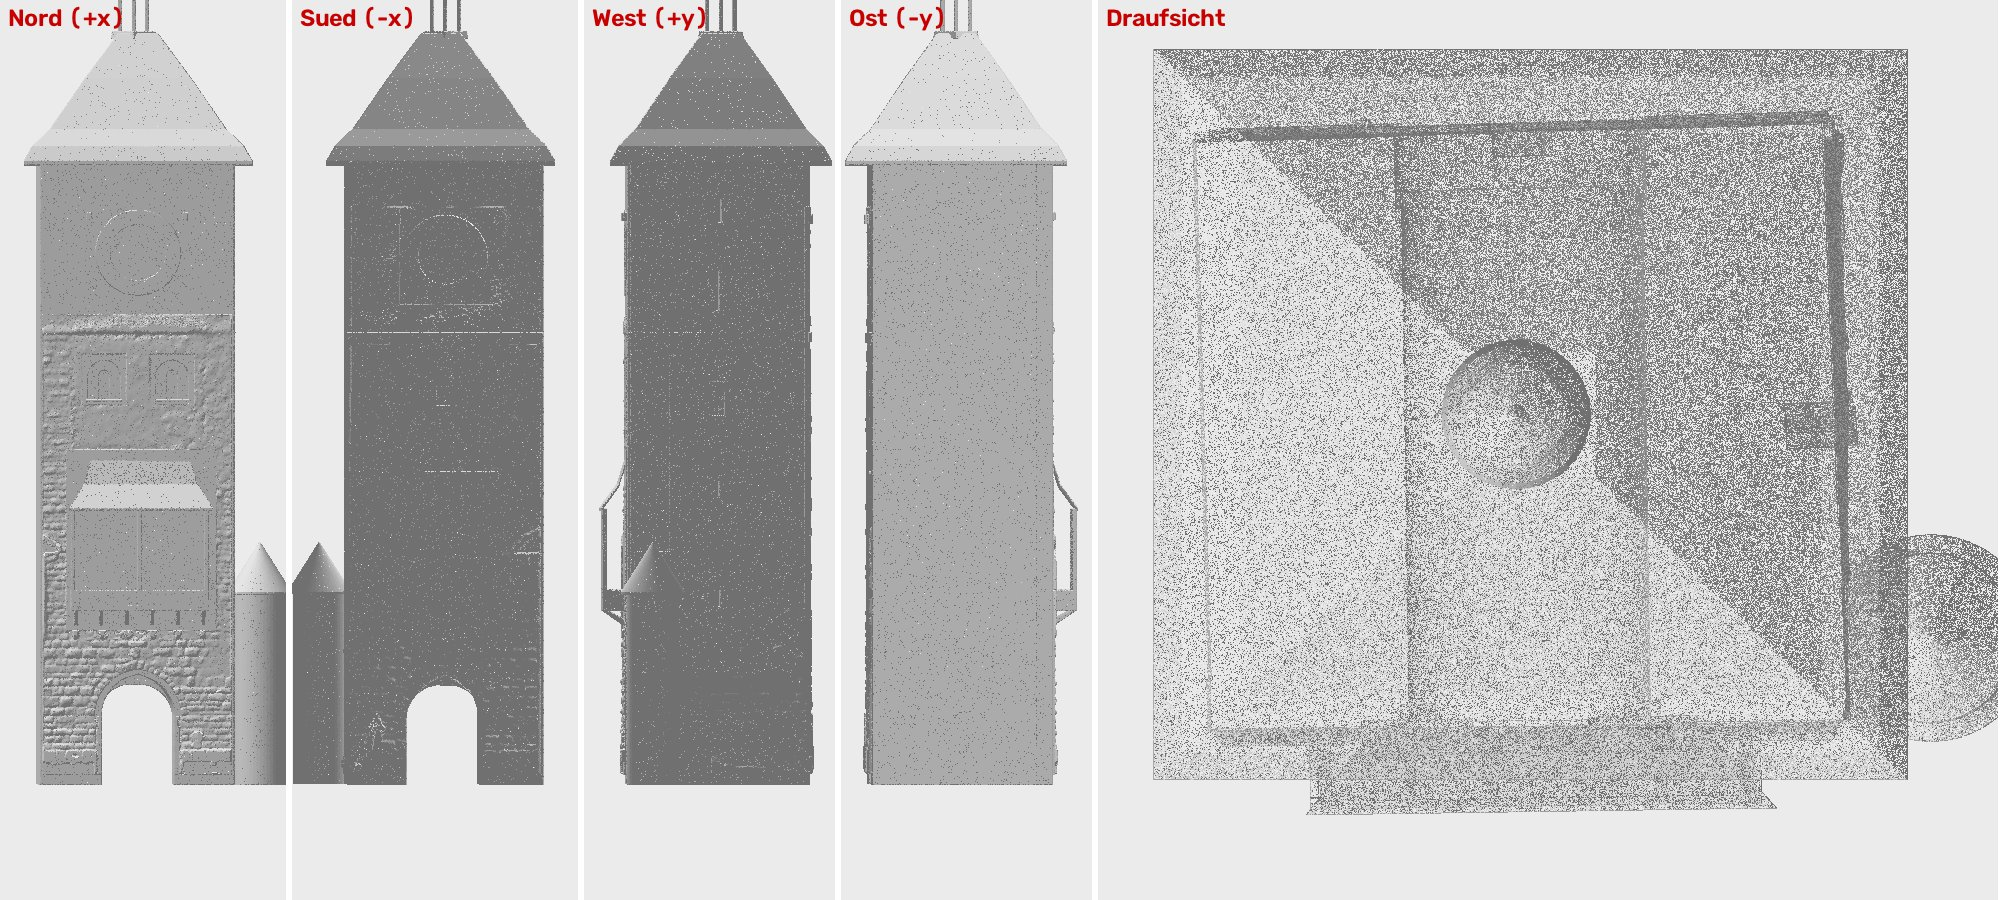
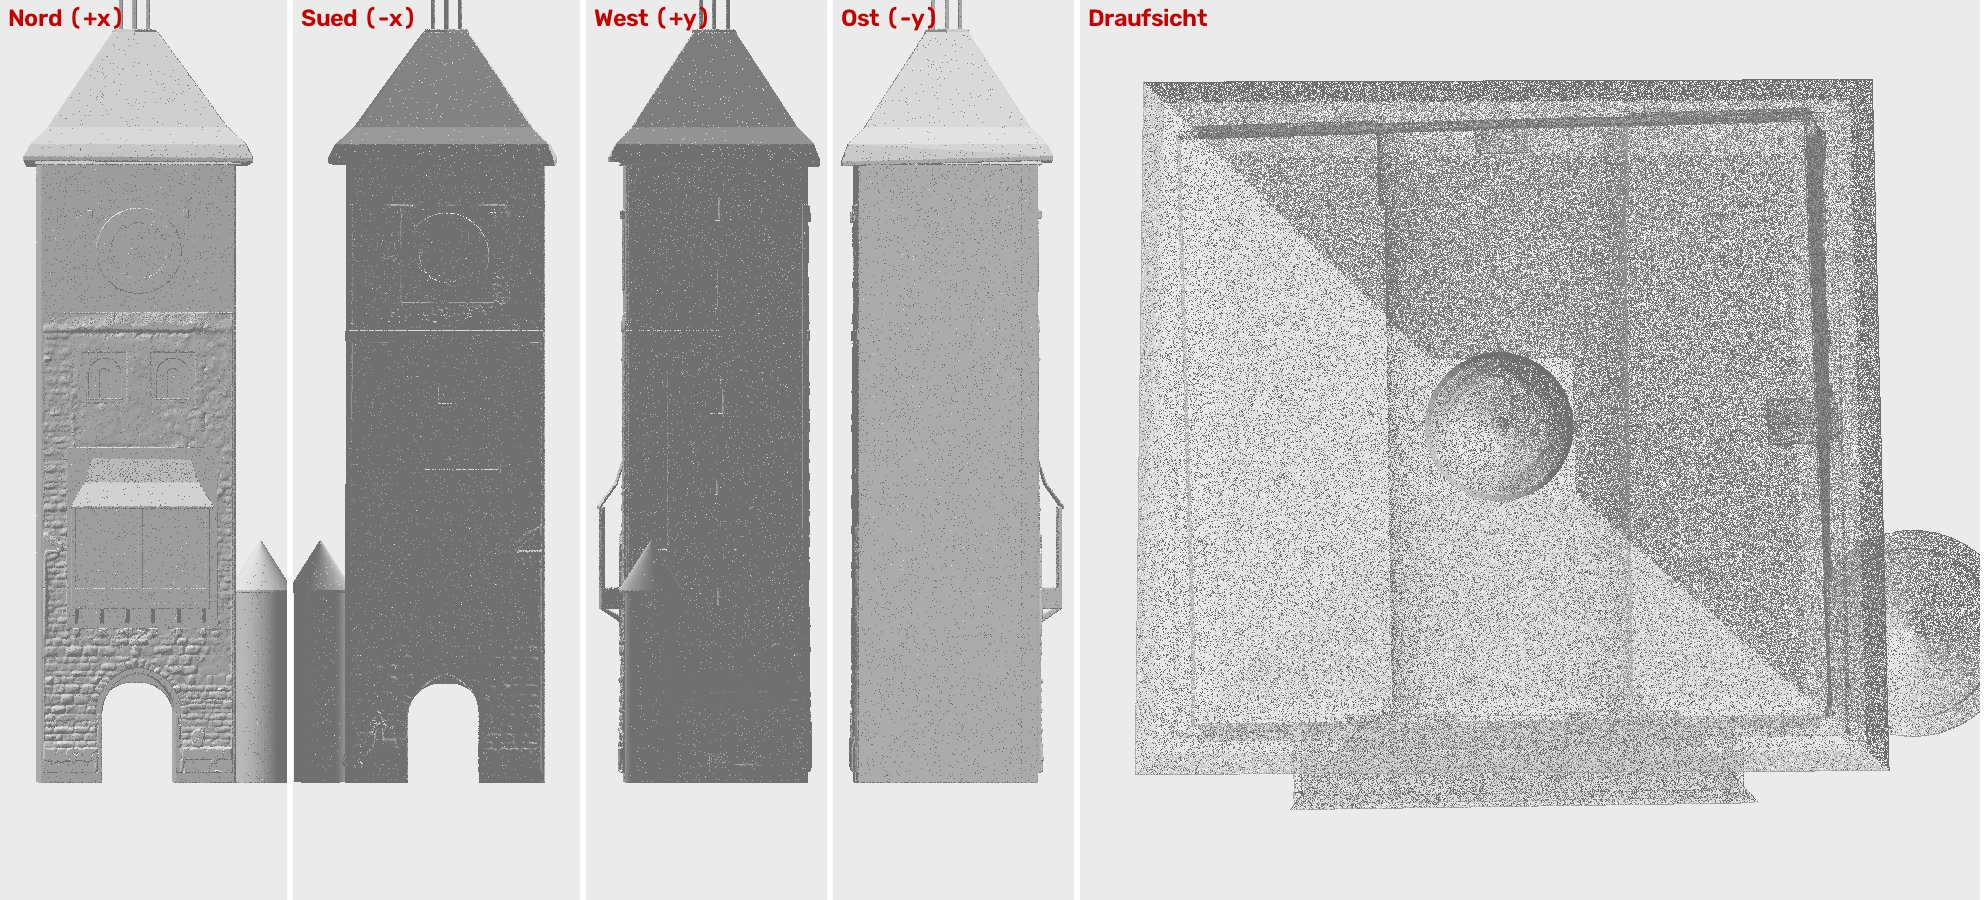
schwab_v3: Dach aus vier gemessenen Traufecken, Laterne auf gemessener Achse, Abnahme gruen
Claude-Session: https://claude.ai/code/session_01BMC5F7JqzthTsrTAV2gKLz

diff --git a/modelle/schwab_v3_gen.py b/modelle/schwab_v3_gen.py
@@ -143,9 +143,23 @@ if obj.get("lod2", {}).get("id"):                    # Standard: LoD2-Grundriss 
     beleg("wand", "Suedwand (Ebene)", "SfM-Neuaufbau mit Eckpaaren (sfm_neu), Wandpunkte z 8-33 m; Gegenprobe Uhr/Traufe im entzerrten Suedfoto 127", x=round(X_SUED, 2),
           hinweis="Lage-Veto der neuen SfM-Punkte, nicht am Foto gepeilt; Knauf-Tor Nord-Sued noch 0,9 m")
     ELEMENTE[:] = [e_ for e_ in ELEMENTE if e_["element"] != "Laterne mit Zwiebelhaube"]      # alte Laterne (Form ANNAHME) entfaellt, neue unten aus Fotomassen
-    koerper = massstab(rumpf + dach, MK); N_BELEGE_ROH = len(ELEMENTE)
+    ELEMENTE[:] = [e_ for e_ in ELEMENTE if e_["element"] != "Zeltdach mit Ueberstand"]       # altes Dach (Sued/Ost/West gespiegelt angenommen) entfaellt, neues unten aus VIER gemessenen Traufecken
+    koerper = massstab(rumpf, MK); N_BELEGE_ROH = len(ELEMENTE)
+    # ---- DACH (15.11.2026) im korrigierten Rahmen: vier Traufecken trianguliert (Nord: M-113205-016/-025 + Ecke A; Sued: M-commons127-011/-012), Achse = Knauf ----
+    D_E = [(4.34, 8.62, 36.79), (4.27, 22.06, 36.69), (-8.05, 21.76, 36.54), (-8.00, 8.77, 36.47)]      # NO, NW, SW, SO: Dachkante aussen oben (m)
+    D_A = (-1.86, 15.11)                                                                              # Achse: x = Mitte der Traufen Nord/Sued (-1,86) = Knauf x (-1,85); y = Knauf (15,11)
+    D_ZE = sum(e_[2] for e_ in D_E) / 4; D_RE = 6.38                                                    # mittlere Traufhoehe 36,62 (Laser 36,6); mittlerer Achsabstand der Traufkanten
+    D_PROF = [(1.0, None), (6.0 / D_RE, 37.5), (5.0 / D_RE, 38.5), (4.0 / D_RE, 40.0), (3.0 / D_RE, 41.5), (0.196, 44.1)]   # (Anteil des Achsabstands, z): Zwischenpunkte DOM1-Laser, oben Laternenfuss (Foto)
+    def ring(f_, z_, dz_=0.0): return [[D_A[0] + f_ * (e_[0] - D_A[0]), D_A[1] + f_ * (e_[1] - D_A[1]), (e_[2] if z_ is None else z_) - dz_] for e_ in D_E]
+    dach = M.hull_points(ring(1.0, None) + ring(1.0, None, 0.23))
+    for (f0_, z0_), (f1_, z1_) in zip(D_PROF[:-1], D_PROF[1:]): dach = dach + M.hull_points(ring(f0_, z0_) + ring(f0_, z0_, 0.23) + ring(f1_, z1_) + ring(f1_, z1_, 0.23))
+    dach = dach + M.hull_points(ring(0.9, D_ZE - 0.3) + ring(0.196, 43.9))                                # Kern unter der Dachhaut
+    koerper = koerper + dach
+    beleg("dach", "Zeltdach geschweift mit Ueberstand, vier gemessene Traufecken", "Foto-Triangulation: Nordecken aus 6 Nordfotos, Suedecken aus 3 Suedfotos (Kameras SfM-Neuaufbau); Flaechenprofil DOM1-Laser",
+          traufe_nord=36.74, traufe_sued=36.5, laenge_nord_sued=12.35, breite_nord=13.44, breite_sued=12.99, ueberstand_nord=0.9, ueberstand_sued=0.83,
+          hinweis="Suedecken auf ~2-3 % (Knauf-Tor 0,9 m); Traufdicke 0,23 m ANNAHME; Aufschiebling aus dem Laserprofil")
     # ---- LATERNE (15.11.2026) im korrigierten Rahmen aus Fotomassen M-113205-017..-024 (Foto 113205, Ebene durch die Laternenachse) + Knauf-Triangulation ----
-    L_X, L_Y, L_ZF = -2.15, 15.11, 44.1                       # Achse: y aus dem Knauf (Nordfotos), x = Dachmitte (ANNAHME, Blickrichtung); Fuss = Oberkante Dachstumpf (47,28 roh x 0,933)
+    L_X, L_Y, L_ZF = -1.86, 15.11, 44.1                       # Achse: y aus dem Knauf (Nordfotos), x = Mitte der gemessenen Traufen Nord/Sued = Knauf x aus der Triangulation; Fuss = Oberkante Dachstumpf (47,28 roh x 0,933)
     lat = M.cylinder(0.4, 1.35, 1.25, 4).rotate((0, 0, 0)).translate((L_X, L_Y, L_ZF - 0.25))           # Sockelplatte auf dem Dachstumpf (ANNAHME)
     for dx_, dy_ in ((0.8, 0), (-0.8, 0), (0, 0.8), (0, -0.8)):                                            # 4 Pfosten an den Hauptachsen: Aussenabstand 1,78 m (M-113205-024), Staerke ANNAHME 0,18 m
         lat = lat + M.cube((0.18, 0.18, 47.0 - L_ZF + 0.1)).translate((L_X + dx_ - 0.09, L_Y + dy_ - 0.09, L_ZF))

diff --git a/modelle/schwab_v3/MASSNACHWEIS.md b/modelle/schwab_v3/MASSNACHWEIS.md
@@ -7,11 +7,11 @@ Massstab: *dokument/lod2/laser* = absolut; *foto_intern* = bekanntes Mass im sel
 |---|---|---|---|---|---|---|
 | Wasserdicht (1=ja) | 1.00 | 1..1 | modell | - | OK | Druckfaehigkeit |
 | Anzahl getrennte Koerper | 1.00 | 1..1 | modell | - | OK | Schwebende Teile |
-| Traufkante Nord: Abstand von Dachmitte bei z 39,05 (m) | 6.48 | 6.29..6.67 | sfm_bodenanker | sfm_buendel | OK | Foto-Triangulation foto_mass.py --tri, 5-6 Fotos der Nordseite mit SfM-Punkten in Dachhoehe, Strahlabstand 1-12 cm; Traufecken A x 4,85 / C x 4,92 (M-113205-002/-003), Dachmitte x -2,15 = Mitte der Waende (Nordwand x 3,69 aus M-113205-006/-007, Suedwand LoD2 -8,0) -> 7,03 +-0,2 (Tiefe entlang der Blickrichtung) / NACH LOTKORREKTUR: Traufecken A x 4,76 / C x 4,83 -> 4,80; 6,95 von der Dachmitte (M-113205-008) |
-| Traufkante West (+y): Abstand von Dachmitte bei z 39,05 (m) | 6.78 | 6.64..6.92 | sfm_bodenanker | sfm_buendel | OK | Foto-Triangulation foto_mass.py --tri, 5-6 Fotos der Nordseite mit SfM-Punkten in Dachhoehe, Strahlabstand 1-12 cm; Traufecke A y 22,51 (M-113205-002), Dachmitte y 15,28 -> 7,23 +-0,15 / NACH LOTKORREKTUR: Traufecke A y 22,55 -> 7,27 (M-113205-008) |
-| Traufkante Ost (-y): Abstand von Dachmitte bei z 39,05 (m) | 6.61 | 6.46..6.75 | sfm_bodenanker | sfm_buendel | OK | Foto-Triangulation foto_mass.py --tri, 5-6 Fotos der Nordseite mit SfM-Punkten in Dachhoehe, Strahlabstand 1-12 cm; Traufecke C y 8,16 (M-113205-003), Dachmitte y 15,28 -> 7,12 +-0,15 / NACH LOTKORREKTUR: Traufecke C y 8,20 -> 7,08 (M-113205-009) |
-| Traufe Nord Oberkante z bei x 4,75 (m) | 36.74 | 36.52..36.89 | sfm_bodenanker | sfm_buendel | OK | Foto-Triangulation foto_mass.py --tri, 5-6 Fotos der Nordseite mit SfM-Punkten in Dachhoehe, Strahlabstand 1-12 cm; Traufecken z 39,15 / 39,20 (M-113205-002/-003); Dachflaeche steigt bis x 4,75 um ~0,15 m / NACH LOTKORREKTUR: Traufecken z 39,20 / 39,32 -> 39,26 (M-113205-009) |
-| Dachflaeche Nord bei z 42,6: Abstand von Dachmitte (m) | 2.20 | 1.9..2.6 | laser_dom1 | DOM1 | OK | DOM1-Laser direkt: Dachflaeche 3 m von der Mitte 41,3-41,9 m, 2 m von der Mitte 42,1-44,8 m -> bei z 42,6 etwa 2,3 m (+-0,35); Laternenfuss aus Foto (M-113205-010) |
+| Traufkante Nord: Abstand von Dachmitte bei z 39,05 (m) | 6.47 | 6.29..6.67 | sfm_bodenanker | sfm_buendel | OK | Foto-Triangulation foto_mass.py --tri, 5-6 Fotos der Nordseite mit SfM-Punkten in Dachhoehe, Strahlabstand 1-12 cm; Traufecken A x 4,85 / C x 4,92 (M-113205-002/-003), Dachmitte x -2,15 = Mitte der Waende (Nordwand x 3,69 aus M-113205-006/-007, Suedwand LoD2 -8,0) -> 7,03 +-0,2 (Tiefe entlang der Blickrichtung) / NACH LOTKORREKTUR: Traufecken A x 4,76 / C x 4,83 -> 4,80; 6,95 von der Dachmitte (M-113205-008) |
+| Traufkante West (+y): Abstand von Dachmitte bei z 39,05 (m) | 6.70 | 6.48..6.78 | sfm_bodenanker | sfm_buendel | OK | Foto-Triangulation foto_mass.py --tri, 5-6 Fotos der Nordseite mit SfM-Punkten in Dachhoehe, Strahlabstand 1-12 cm; Traufecke A y 22,51 (M-113205-002), Dachmitte y 15,28 -> 7,23 +-0,15 / NACH LOTKORREKTUR: Traufecke A y 22,55 -> 7,27 (M-113205-008) |
+| Traufkante Ost (-y): Abstand von Dachmitte bei z 39,05 (m) | 6.62 | 6.46..6.75 | sfm_bodenanker | sfm_buendel | OK | Foto-Triangulation foto_mass.py --tri, 5-6 Fotos der Nordseite mit SfM-Punkten in Dachhoehe, Strahlabstand 1-12 cm; Traufecke C y 8,16 (M-113205-003), Dachmitte y 15,28 -> 7,12 +-0,15 / NACH LOTKORREKTUR: Traufecke C y 8,20 -> 7,08 (M-113205-009) |
+| Traufe Nord Oberkante z bei x 4,75 (m) | 36.82 | 36.52..36.89 | sfm_bodenanker | sfm_buendel | OK | Foto-Triangulation foto_mass.py --tri, 5-6 Fotos der Nordseite mit SfM-Punkten in Dachhoehe, Strahlabstand 1-12 cm; Traufecken z 39,15 / 39,20 (M-113205-002/-003); Dachflaeche steigt bis x 4,75 um ~0,15 m / NACH LOTKORREKTUR: Traufecken z 39,20 / 39,32 -> 39,26 (M-113205-009) |
+| Dachflaeche Nord bei z 42,6: Abstand von Dachmitte (m) | 2.47 | 1.9..2.6 | laser_dom1 | DOM1 | OK | DOM1-Laser direkt: Dachflaeche 3 m von der Mitte 41,3-41,9 m, 2 m von der Mitte 42,1-44,8 m -> bei z 42,6 etwa 2,3 m (+-0,35); Laternenfuss aus Foto (M-113205-010) |
 | Gesamthoehe mit Laterne (m) | 51.76 | 50.56..52.05 | sfm_bodenanker | sfm_buendel | OK | Foto-Triangulation foto_mass.py --tri, 5-6 Fotos der Nordseite mit SfM-Punkten in Dachhoehe, Strahlabstand 1-12 cm; Knauf ueber der Zwiebelhaube z 54,17 (M-113205-005); darueber Spitze (ANNAHME bis ~1,5 m, nicht gemessen). WIDERSPRUCH zu objekt.json hoehe_m 50,8 - nicht gemittelt, Nutzer gemeldet / NACH LOTKORREKTUR: Knauf 54,18 (unveraendert) (M-113205-011) |
 | Nordwand Uhrgeschoss: Abstand von Dachmitte bei z 36 (m) | 5.58 | 5.43..5.71 | sfm_bodenanker | sfm_buendel | OK | Foto-Peilung foto_mass.py --tri2d: Wandecken A' (3,60 / 21,36) und C' (3,78 / 9,20) (M-113205-006/-007) -> Wand x 3,69 = 5,84 von der Mitte; LoD2 3,54..3,92 / NACH LOTKORREKTUR: Wandecken A' (3,54 / 21,38), C' (3,72 / 9,22) -> Wand x 3,63 = 5,78 (M-113205-012) |
 | Tor Nord: halbe lichte Breite nach West bei z 2 (m) | 2.11 | 2.05..2.27 | foto_kalibriert | K-eigen__IMG_20261106_113602 (SfM-Buendel, Rahmen lotrecht aus Foto-Vertikalen) | OK | foto_mass.py --kamera/--ebene auf der Nordwandebene (0,17 m vor der gepeilten Wand = Sockelflaeche), Frontalfoto 113602 (1 Grad zur Wandnormalen); Lage der Kanten auf der Ebene durch Schraegfoto 113310 (-47 Grad) bestaetigt; lichte Breite zwischen den Pfeilern 4,63 m (M-113602-001), Mitte u 6,135 |
@@ -81,7 +81,6 @@ Massstab: *dokument/lod2/laser* = absolut; *foto_intern* = bekanntes Mass im sel
 - wand: Teil 1 (ohne Dachmessung) - LoD2 DEBW_001000hPLcp Wandoberkante (31 eigene Waende)
 - wand: Grundriss Teil 1 - LoD2 DEBW_001000hPLcp GroundSurface 1
 - wand: Grundriss Schaft = LoD2-Umriss x 0,933 - Wolkenwaende aller vier Seiten im Lasermassstab (tools/..., Stand 15.11.): LoD2 unskaliert 0,2-0,6 m zu breit, skaliert +-0,2 m
-- dach: Zeltdach mit Ueberstand - Foto-Triangulation Nordseite (foto_mass.py --tri, M-113205-008/-009/-010, Rahmen lotrecht aus Foto-Vertikalen)
 - wand: Hauptteil Wand bis Traufe - LoD2 DEBW_001000hPLcp GroundSurface 0; Nordwand am Foto bestaetigt (M-113205-006/-007)
 - wand: Nordwand (Ebene) - Foto-Peilung foto_mass.py --tri2d der Wandecken am Uhrgeschoss (M-113205-012/-013)
 - wand: Relief Nordwand z 0,6-29,6 m - OpenMVS-Netz der Fotowolke (rc-park_daten/schwab_v3/openmvs/mesh.ply), Hoehenbild 5 cm, geklemmt -0,10..+0,15 m; Fugen gegen 3 Fotos korreliert (audit/relief_test.json)
@@ -91,6 +90,7 @@ Massstab: *dokument/lod2/laser* = absolut; *foto_intern* = bekanntes Mass im sel
 - dach: Vordach Nord (geschweiftes Pultdach) - Foto-Triangulation foto_mass.py --tri (M-113128-001..-004)
 - wand: Uhr Nord (Zifferblatt 5,36 m, Innenfeld 3,52 m) - foto_mass.py auf der Wandebene, Fotos 113029 und 113205
 - wand: Suedwand (Ebene) - SfM-Neuaufbau mit Eckpaaren (sfm_neu), Wandpunkte z 8-33 m; Gegenprobe Uhr/Traufe im entzerrten Suedfoto 127
+- dach: Zeltdach geschweift mit Ueberstand, vier gemessene Traufecken - Foto-Triangulation: Nordecken aus 6 Nordfotos, Suedecken aus 3 Suedfotos (Kameras SfM-Neuaufbau); Flaechenprofil DOM1-Laser
 - dach: Laterne: 4 Pfosten, Krempe, Zwiebelhaube, Knauf, Spitze - foto_mass.py Foto 113205 auf der Ebene durch die Laternenachse (M-113205-017..-024); Knauf zusaetzlich aus 5 Nordfotos trianguliert (50,73 m)
 - wand: Relief Suedwand z 0,6-34 m - OpenMVS-Netz der neuen dichten Wolke (sfm_neu/openmvs/mesh.ply), Hoehenbild 5 cm, geklemmt -0,10..+0,15 m, Loecher 8 %
 - wand: Suedfassade: Torbogen, Fenster, Uhr, Gesims, Verdachung - foto_mass.py auf der Suedwandebene, Fotos commons 127 und 217 (M-commons127-002..-010, M-commons217-001..-003)

diff --git a/modelle/STAND_2026-11-14.md b/modelle/STAND_2026-11-14.md
@@ -224,3 +224,4 @@
 - **07:00 Nachbarhaus: Nordost-Fassade (Teile 0/2) als Relief** (relief/nordost.npz, u 1,6-9,5 m, z 0,5-11,3 m, Band 1,8; LoD2-Kante (3,5/2,8)-(12,0/-1,5), Fassade liegt ~5 Grad schraeg dazu und im Obergeschoss 0,63 m davor - kommt ueber trend). Darin: Rundfenster "Goldschmiede", Fensterband, DRITTER BOGEN (Laube am Nordostfluegel, u ~4-9,5, Scheitel ~6 m) = Loch im Netz -> im Modell noch geschlossene Wand (ANNAHME, offen). Abnahme gruen. foto_diff 113231: 3 % / 35 %. 3D-Seite Version 26. NAECHSTES Nachbarhaus: dritten Bogen messen und oeffnen, Fenster der Nordfassade scharf, Dach/Giebel; Turm: Laterne, Nordrelief auf neues Netz.
 - **07:40 Nachbarhaus: LAUBE (dritter Bogen, Nordost) geoeffnet.** Wandgerade Nordost-Erdgeschoss aus der Wolke: (5,15 / 2,08)-(11,89 / -1,43), Rest 0,8 cm. Masse foto_mass Foto 113529 (Gegenprobe 113452, gleiche Kanten): lichte Breite 5,41 m, Kaempfer 3,5 m, Scheitel innen 5,83 m, Achse u 4,535 (M-113529-001..-004 im Objekt schwab_nachbar). Im Generator als 4 m tiefe Halle (Tiefe ANNAHME). 3 Pruefungen; LEHRE: schnitt_reichweite liefert die WEITESTE Kontur im Streifen - bei Reliefkoerpern r_max knapp hinter die erwartete Kante setzen und die Messstelle in die Fassadenplatte legen. Abnahme gruen; foto_diff 113529: 16 % / 61 %, Laubenbogen gruen (audit/laube_foto_diff.jpg). 3D-Seite Version 27. Offen dort: Masswerkbruestung z 7-8 m, Holzstreben, Treppe, Staffelgiebel des Hauses dahinter (im Foto links, gehoert zu einem weiteren Gebaeude ohne LoD2-Anschluss?).
 - **08:15 Turm: LATERNE aus Fotomassen neu gebaut.** foto_mass Foto 113205 auf der Ebene durch die Laternenachse (M-113205-017..-024): Krempe z 47,0 (Spitze zu Spitze 2,85 m), Haube groesste Breite 2,64 m bei z 47,95, Hals z 50,17, Knauf z 50,77 (Triangulation 50,73), Spitze z 51,76, Pfostenabstand aussen 1,78 m; Fuss = Dachstumpf 44,1. Gebaut im korrigierten Rahmen: Sockelplatte, 4 Pfosten, Krempe mit 4 Spitzen, Zwiebelhaube als Kegelstumpf-Stapel, Hals, Knauf, Spitze; Achse y 15,11 (Knauf), x = Dachmitte (ANNAHME). 3 Pruefungen (merkmal duennes_bauteil), Abnahme gruen. foto_diff 113205: Krempe und Pfosten gruen, die glatte Haube wird nicht als Kante erkannt. ACHTUNG Messgrenze: Punkte VOR der Achsebene (Pfostenfuss) erscheinen in der Ebenenmessung zu hoch (45,15 statt 44,1) - nur Achs- und Silhouettenpunkte verwenden. 3D-Seite Version 28.
+- **08:50 Turm: DACH AUS VIER GEMESSENEN TRAUFECKEN neu.** Suedecken mit den neuen Kameras trianguliert (commons 191/127/052): SO (-8,00 / 8,77 / 36,47), SW (-8,05 / 21,76 / 36,54) (M-commons127-011/-012, Strahlabstand 3-14 cm); Nordecken mit neuen Kameras: NO (4,34 / 8,62 / 36,79) (M-113205-025), NW (4,27 / 22,06 / 36,69). Traufhoehe Nord 36,74 / Sued 36,5 (Laser 36,6!). Dach 12,35 m lang (Nord-Sued), 13,44 m breit im Norden, 12,99 m im Sueden; Mitte x -1,86 = Knauf x -1,85 (die alte Annahme "Suedtraufe spiegelbildlich" lag 0,68 m zu weit suedlich). Dach im korrigierten Rahmen als Ringe zwischen den vier Ecken und der Achse (Knauf -1,86 / 15,11), Profil aus dem Laser; Laterne auf dieser Achse. Sollwerte: West mit neuer Quelle nachgefuehrt, Schnitthoehe der Traufpruefungen 36,55. Abnahme gruen. HOEHEN-TOR: +0,38 m (MAD 0,10) bei Versatz (-0,25 / -0,25), vorher +0,46 bei (0 / -0,5). foto_diff 113205 17 % / 65 %, 127 23 % / 74 % (Traufoberkante gruen; rote Baender = Unterkante der 0,23-m-Traufplatte, echte Untersicht ist anders). 3D-Seite Version 29. Offen: Dachuntersicht/Sparrenkoepfe, Dachflaeche liegt noch ~0,4 m ueber dem Laser (Profilpunkte), Nordrelief altes Netz.
